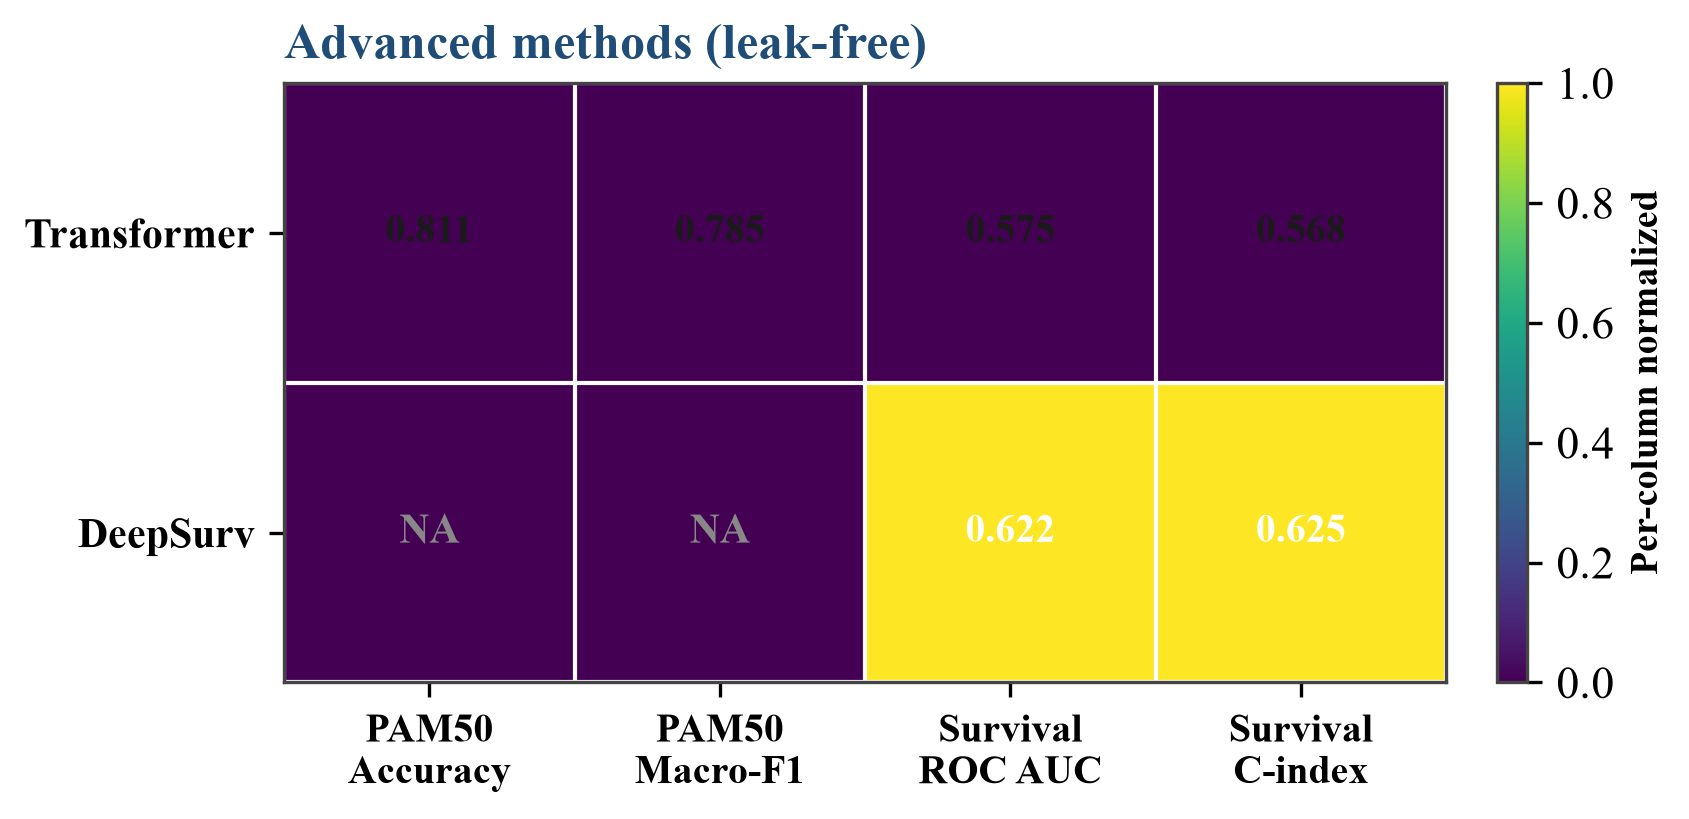
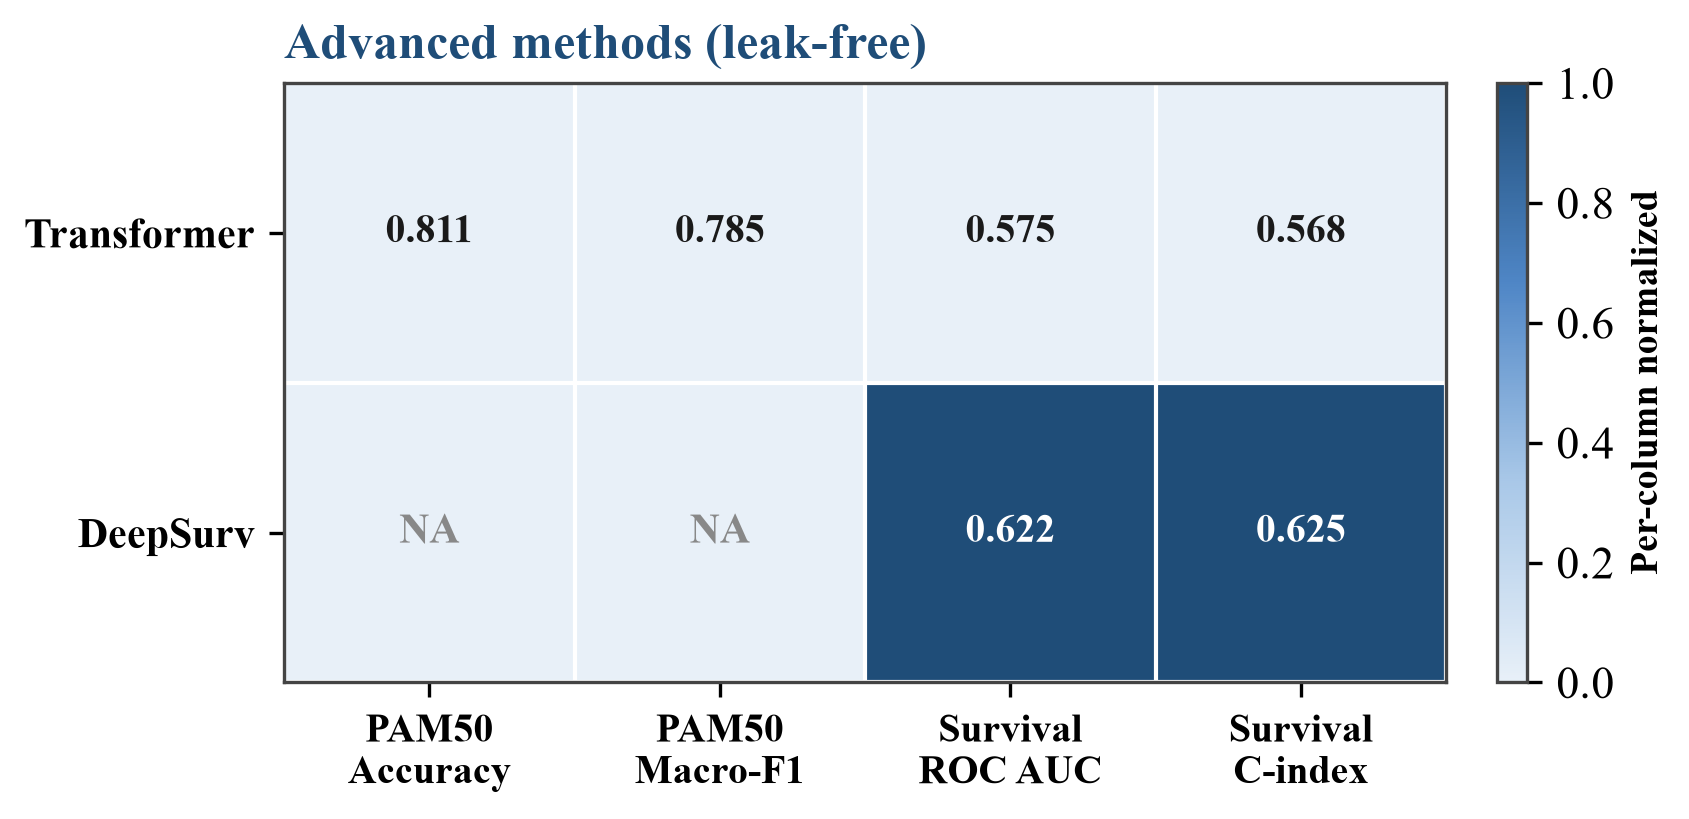
Use blue heatmap colormap for Figure 3B/3C
Replace viridis with a monochromatic blue ramp to reduce color span and coordinate with panel A.

diff --git a/scripts/make_fig3_bc_heatmap.py b/scripts/make_fig3_bc_heatmap.py
@@ -8,6 +8,7 @@ matplotlib.use("Agg")
 import matplotlib.pyplot as plt
 import numpy as np
 import pandas as pd
+from matplotlib.colors import LinearSegmentedColormap
 from matplotlib.image import imread
 
 D = Path(r"E:\组学数据图像化\data\paper_figures")
@@ -32,6 +33,9 @@ plt.rcParams.update({
 
 
 def draw_heatmap(mat, row_labels, col_labels, value_fmt, title, out, figsize, na_text="NA"):
+    blue_cmap = LinearSegmentedColormap.from_list(
+        "bc_blue", ["#E8F0F8", "#A9C8E8", "#4F86C6", "#1F4D78"]
+    )
     # per-column min-max normalization
     norm = np.full_like(mat, np.nan, dtype=float)
     for j in range(mat.shape[1]):
@@ -42,7 +46,7 @@ def draw_heatmap(mat, row_labels, col_labels, value_fmt, title, out, figsize, na
             norm[:, j] = (col - lo) / (hi - lo) if hi > lo else 0.0
 
     fig, ax = plt.subplots(figsize=figsize)
-    im = ax.imshow(norm, cmap="viridis", aspect="auto", vmin=0, vmax=1)
+    im = ax.imshow(norm, cmap=blue_cmap, aspect="auto", vmin=0, vmax=1)
     ax.set_xticks(np.arange(len(col_labels)))
     ax.set_xticklabels(col_labels, fontsize=9.5, fontweight="bold")
     ax.set_yticks(np.arange(len(row_labels)))
